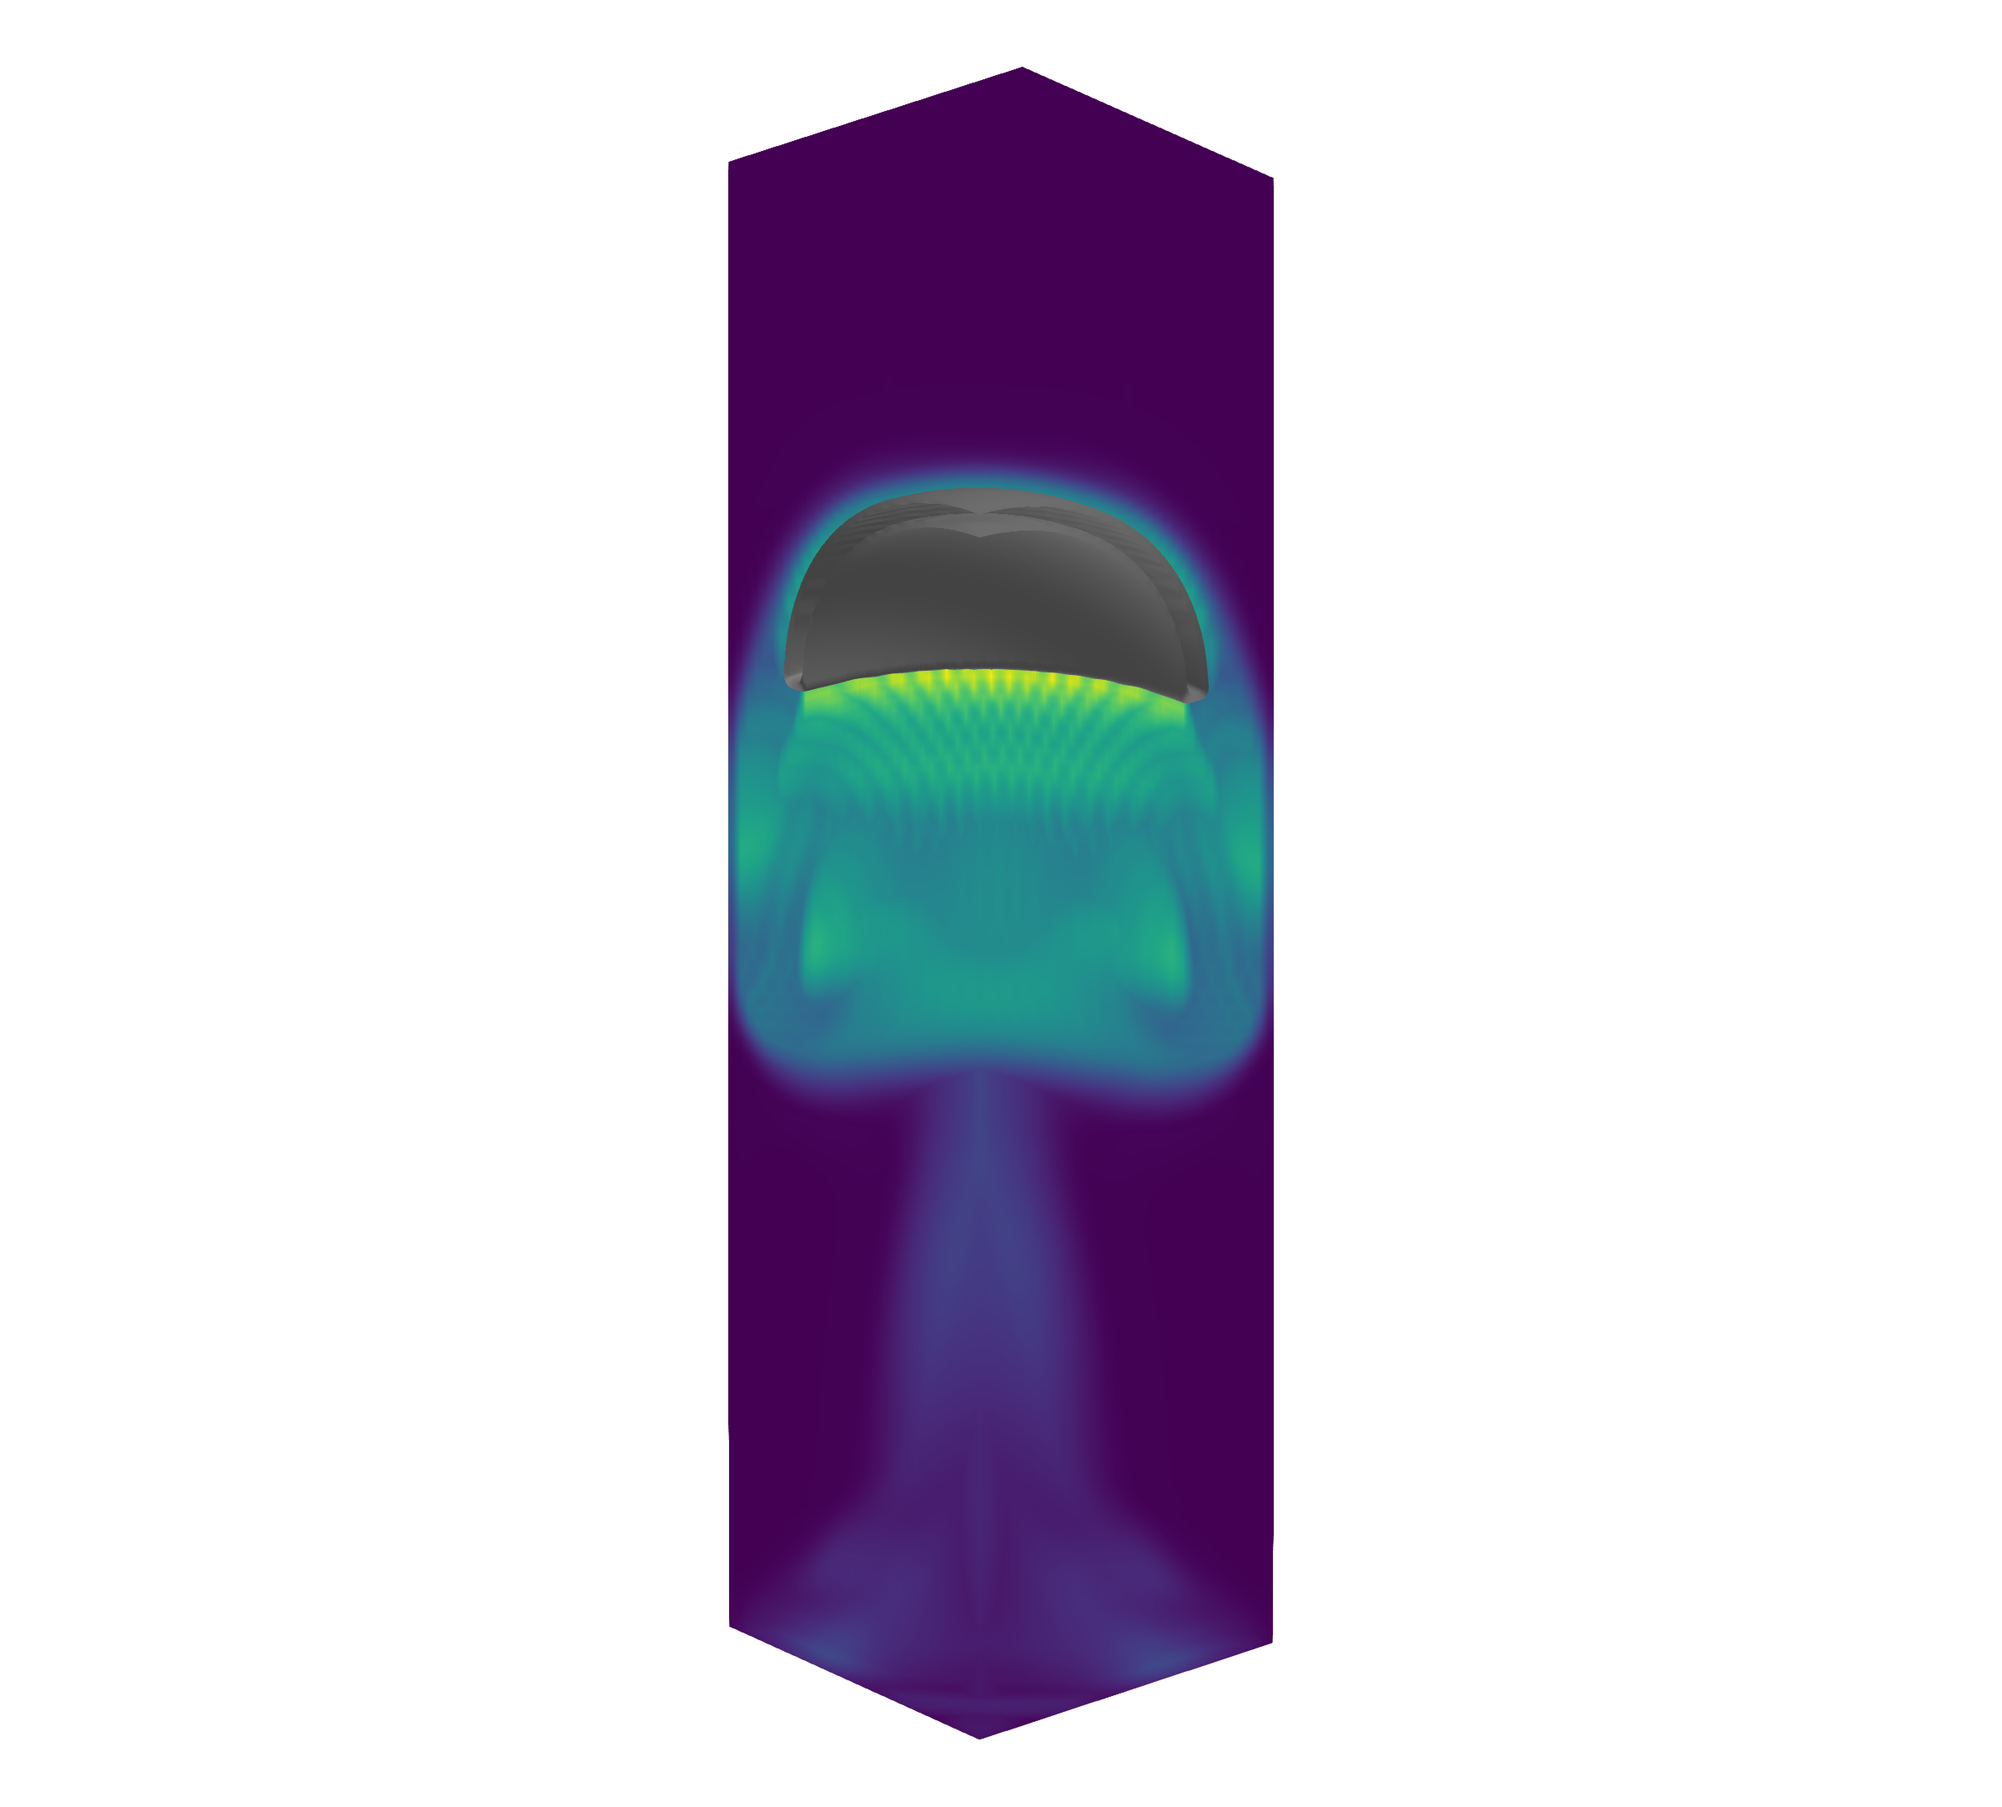
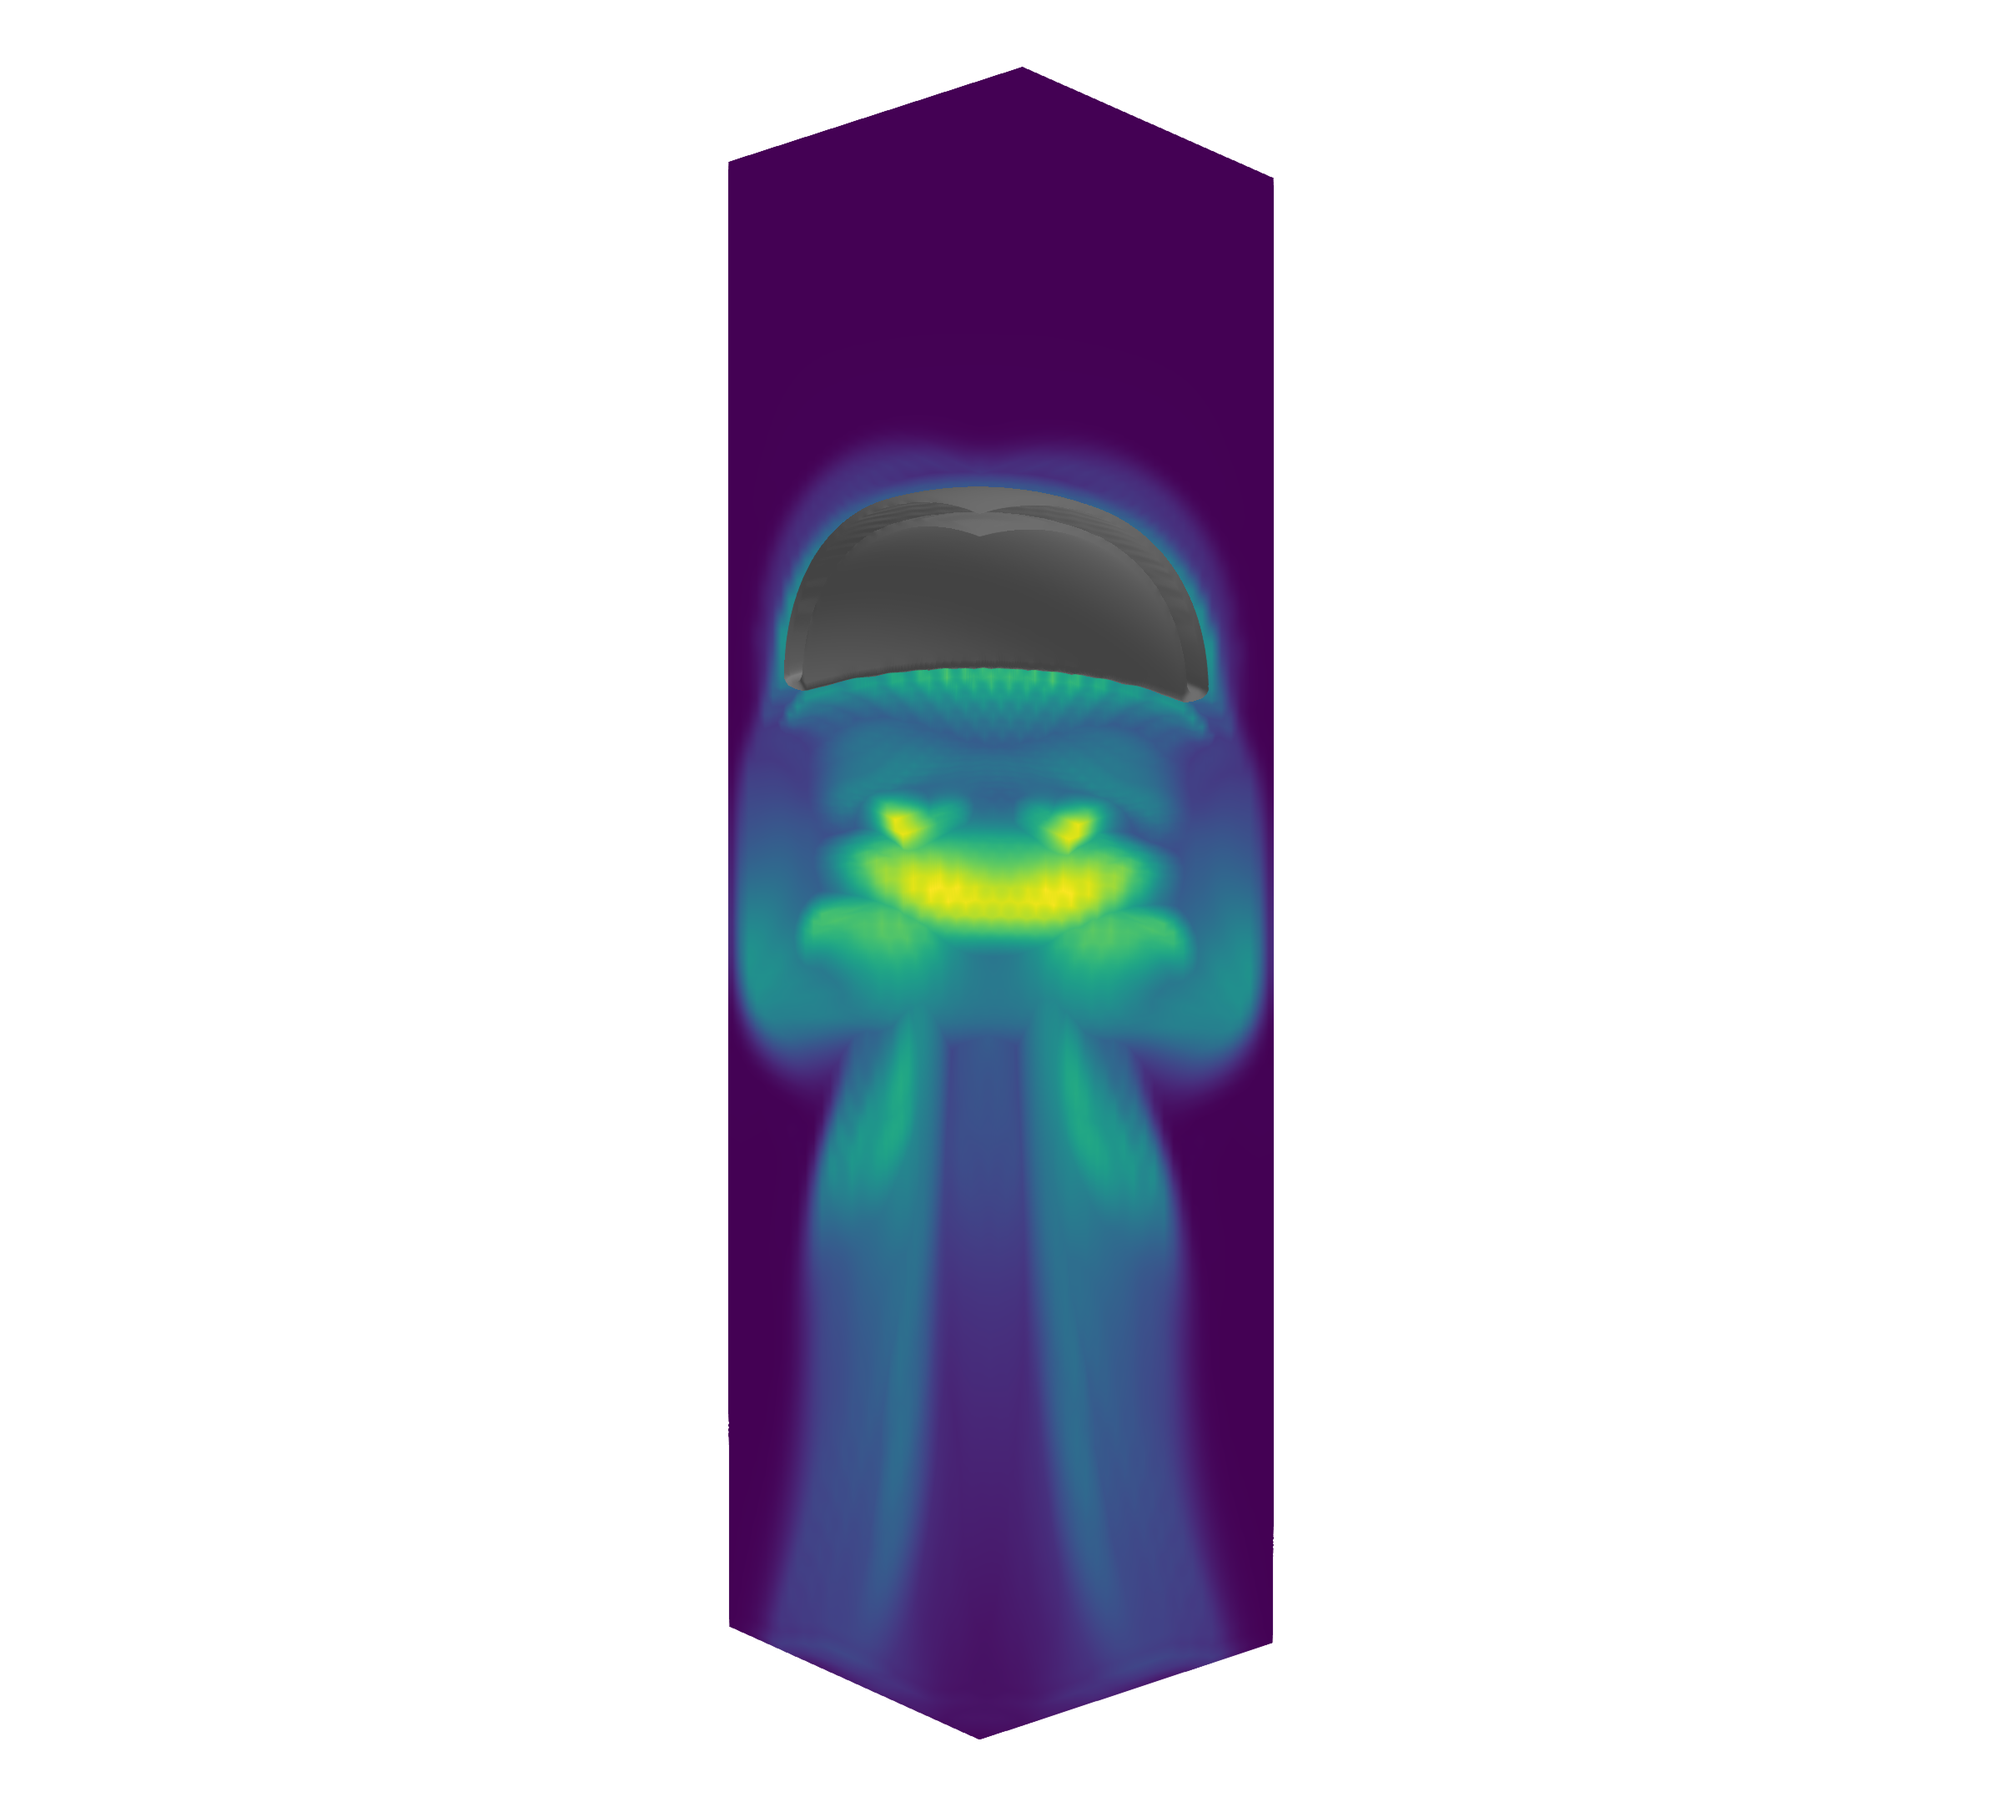
Add tgv-periodic, sphere-biotsavart and jelly-biotsavart cases
tgv-periodic is tgv with periodic boundaries in every direction, so it
covers perBC!. The -biotsavart cases use the Biot-Savart boundaries of
BiotSavartBCs.jl: jelly-biotsavart is the previous jelly, whose
checkpoints and images are renamed, and jelly now uses WaterLily's default
boundaries. A - in a case name is a _ in its function name, and compare.jl
matches case names exactly, since tgv is part of tgv-periodic. The new
checkpoints were developed on GPU with WaterLily 1.9.1 and BiotSavartBCs
main.

Assisted-By: Claude Opus 5.5 <noreply@anthropic.com>

Changed region(s): [[0.3438, 0.3093, 0.6562, 0.897], [0.4062, 0.2475, 0.5938, 0.3093]]

diff --git a/README.md b/README.md
@@ -38,8 +38,8 @@ The accepted command line arguments are (parenthesis for short version):
     -w "fae590d e22ad41" -v "1.8.5 1.9.4" -b "Array CuArray" -t "1 6"
     ```
     would generate benchmark for all these combinations of parameters.
- - Case arguments: `--cases(-c)`, `--log2p(-p)`, `--max_steps(-s)`, `--ftype(-ft)`. The `--cases` argument specifies which cases to benchmark, and it can be again a list of different cases. The name of the cases needs to be defined in [cases.jl](cases.jl), for example `tgv` or `jelly`. The current available cases are `"tgv sphere cylinder donut jelly"`. Hence, to add a new case first define the function that returns a `Simulation` in [cases.jl](./cases.jl), and then it can be called using the `--cases(-c)` list argument. Case size, number of time steps, and float data type are then defined for each case (`-p`, `-s`, `-ft`, respectively). Each of `-p`, `-s`, `-ft` may either provide one value per case (an array matching the length of `-c`), or a single value that is broadcast to every case. Omitted arguments use the defaults at the top of [benchmark.sh](./benchmark.sh): the per-case size map `DEF_LOG2P` (currently `tgv`→`6,7`, `jelly`→`5,6`, `sphere`→`3,4`, `cylinder`→`4,5`) and the uniform `DEF_MAXSTEPS` (`25`) and `DEF_FTYPE` (`Float32`). So `-c "tgv sphere" -ft "Float64"` runs `tgv` at `6,7` and `sphere` at `3,4`, both in `Float64`. A case with no entry in `DEF_LOG2P` (e.g. `donut`) errors on an omitted `-p`, with a hint to add it there or pass `-p` explicitly; `-s`/`-ft` always default. Omitting `-c` runs only the default sweep (`tgv jelly`).
- - BiotSavartBCs pairing (optional): `--biotsavart(-bs)`, `--biotsavart_dir(-bsd)`. Some cases (e.g. `jelly`) solve the pressure Poisson equation through [BiotSavartBCs.jl](https://github.com/WaterLily-jl/BiotSavartBCs.jl)'s own `mom_project!` rather than WaterLily's `solver!`, so benchmarking a change that spans both packages (such as the Poisson stopping criterion) requires switching BiotSavartBCs in tandem with WaterLily. Pass `-bs` a list of BiotSavartBCs branches/tags/hashes paired 1:1 with `-w` (e.g. `-w "master poisson-rms-tol" -bs "main combined-tol"`) and point `-bsd` (or `$BIOTSAVART_DIR`) at a local BiotSavartBCs clone. Each run checks out the WaterLily version first, then its paired BiotSavartBCs version (order matters when the BiotSavartBCs branch needs new WaterLily symbols). Omit `-bs` to use the BiotSavartBCs pinned in `Project.toml`'s `[sources]`.
+ - Case arguments: `--cases(-c)`, `--log2p(-p)`, `--max_steps(-s)`, `--ftype(-ft)`. The `--cases` argument specifies which cases to benchmark, and it can be again a list of different cases. The name of the cases needs to be defined in [cases.jl](cases.jl), for example `tgv` or `jelly`. The current available cases are `"tgv tgv-periodic sphere sphere-biotsavart cylinder donut jelly jelly-biotsavart"`: `tgv-periodic` is `tgv` with periodic boundaries in every direction, and the `-biotsavart` cases use the Biot-Savart boundaries of [BiotSavartBCs.jl](https://github.com/WaterLily-jl/BiotSavartBCs.jl) instead of WaterLily's default ones. Hence, to add a new case first define the function that returns a `Simulation` in [cases.jl](./cases.jl) (a `-` in the case name is a `_` in the function name), and then it can be called using the `--cases(-c)` list argument. Case size, number of time steps, and float data type are then defined for each case (`-p`, `-s`, `-ft`, respectively). Each of `-p`, `-s`, `-ft` may either provide one value per case (an array matching the length of `-c`), or a single value that is broadcast to every case. Omitted arguments use the defaults at the top of [benchmark.sh](./benchmark.sh): the per-case size map `DEF_LOG2P` (currently `tgv`→`6,7`, `jelly`→`5,6`, `sphere`→`3,4`, `cylinder`→`4,5`, and the same for their `-periodic` and `-biotsavart` variants) and the uniform `DEF_MAXSTEPS` (`25`) and `DEF_FTYPE` (`Float32`). So `-c "tgv sphere" -ft "Float64"` runs `tgv` at `6,7` and `sphere` at `3,4`, both in `Float64`. A case with no entry in `DEF_LOG2P` (e.g. `donut`) errors on an omitted `-p`, with a hint to add it there or pass `-p` explicitly; `-s`/`-ft` always default. Omitting `-c` runs only the default sweep (`tgv jelly`).
+ - BiotSavartBCs pairing (optional): `--biotsavart(-bs)`, `--biotsavart_dir(-bsd)`. The `-biotsavart` cases solve the pressure Poisson equation through [BiotSavartBCs.jl](https://github.com/WaterLily-jl/BiotSavartBCs.jl)'s own `mom_project!` rather than WaterLily's `solver!`, so benchmarking a change that spans both packages (such as the Poisson stopping criterion) requires switching BiotSavartBCs in tandem with WaterLily. Pass `-bs` a list of BiotSavartBCs branches/tags/hashes paired 1:1 with `-w` (e.g. `-w "master poisson-rms-tol" -bs "main combined-tol"`) and point `-bsd` (or `$BIOTSAVART_DIR`) at a local BiotSavartBCs clone. Each run checks out the WaterLily version first, then its paired BiotSavartBCs version (order matters when the BiotSavartBCs branch needs new WaterLily symbols). Omit `-bs` to use the BiotSavartBCs pinned in `Project.toml`'s `[sources]`.
  - Repetitions: `--repeats(-r)`. Repeats the whole sweep `N` times (default `1`), each benchmark in a new Julia process, reversing the Julia/WaterLily version order on even repetitions. The files get a `_r<n>` suffix and [compare.jl](./compare.jl) merges the repetitions of a benchmark into a single row (the `Reps` column shows how many were merged). Use it when the machine state can change between processes, which is typical on laptops (CPU frequency, thermal and power limits): the runs of a single process share that state, so with `Reps = 1` the `Noise` column cannot show it. See [Measurement methodology](#measurement-methodology).
  - Developed-flow checkpoints: `--developed(-dev)`. By default the suite times `sim_step!` starting from a *developed* flow loaded from `checkpoints/<case>_<log2p>_<ftype>.jld2` (git-LFS) instead of from the startup transient, so the measurement reflects steady-state cost. Generate the checkpoints with `julia --project=. develop.jl` (which advances each case to its `develop_time` in [util.jl](./util.jl)) and render a vorticity image per case with `julia --project=. visualize.jl`. A requested case/size with no stored checkpoint is a hard error; pass `-dev ""` to time the transient instead, or `-dev <dir>` to read checkpoints from a different directory.
  - Machine check: `--force(-f)`. On Linux, [benchmark.sh](./benchmark.sh) first stops if a CPU is capped below its maximum frequency or if fewer CPUs are available than `--threads` + 1, and warns if turbo is off or the machine is busy. `-f` runs anyway.
@@ -70,11 +70,11 @@ The `--speedup_base="<backend>,<waterlily hash/ref>,<julia version>"` argument (
 
 **What is timed.** One sample is a single `sim_step!` followed by a backend synchronisation. A *run* is `max_steps` consecutive steps (default `25`), and each benchmark does 5 runs. With developed flows (the default), every run is first reset to the same checkpoint, so all runs time the same steps of the flow; with `-dev ""` the runs march on continuously from the startup transient. Before the runs, the case is warmed up from the same state for at least 50 steps and 2 seconds (JIT, device clocks), and `GC.gc()` is called.
 
-**Reference time.** For each run, take the mean of its per-step times, i.e. the run time divided by `max_steps`. The reference, shown as `Mean`, is the **minimum of the run means**, which discards runs slowed down from outside, as BenchmarkTools' minimum does: a step slowed down by an interrupt or a GC pause raises the mean of its run, and the minimum drops that run. Every run times the same steps, so the mean counts all the work of those steps, also when steps do different amounts of work. In `jelly`, for example, a pressure solve needs a varying number of Biot-Savart boundary updates, so its step times come in levels.
+**Reference time.** For each run, take the mean of its per-step times, i.e. the run time divided by `max_steps`. The reference, shown as `Mean`, is the **minimum of the run means**, which discards runs slowed down from outside, as BenchmarkTools' minimum does: a step slowed down by an interrupt or a GC pause raises the mean of its run, and the minimum drops that run. Every run times the same steps, so the mean counts all the work of those steps, also when steps do different amounts of work. In `jelly-biotsavart`, for example, a pressure solve needs a varying number of Biot-Savart boundary updates, so its step times come in levels.
 
-The minimum of the run medians is still shown, as `Median`. It describes the typical step and ignores occasional slow steps, but it is not a measure of cost when steps do different amounts of work: when about half the steps sit on each level, one step changing level moves the median by the whole gap between levels, while the total work barely changes. In the example below, `Median` of `jelly` on CPUx01 jumps by 17% from v1.7.0 to v1.8.0 while `Mean` changes by 1%. When all steps do the same work, as in `tgv` or `sphere`, `Mean` and `Median` are close.
+The minimum of the run medians is still shown, as `Median`. It describes the typical step and ignores occasional slow steps, but it is not a measure of cost when steps do different amounts of work: when about half the steps sit on each level, one step changing level moves the median by the whole gap between levels, while the total work barely changes. In the example below, `Median` of `jelly-biotsavart` on CPUx01 jumps by 17% from v1.7.0 to v1.8.0 while `Mean` changes by 1%. When all steps do the same work, as in `tgv` or `sphere`, `Mean` and `Median` are close.
 
-**Table columns.** An example table from a comparison of WaterLily releases (`jelly` at `log2p = 5`, master as speedup baseline, 3 repetitions):
+**Table columns.** An example table from a comparison of WaterLily releases (`jelly-biotsavart` at `log2p = 5`, master as speedup baseline, 3 repetitions):
 
 ```
 ▶ log2p = 5
